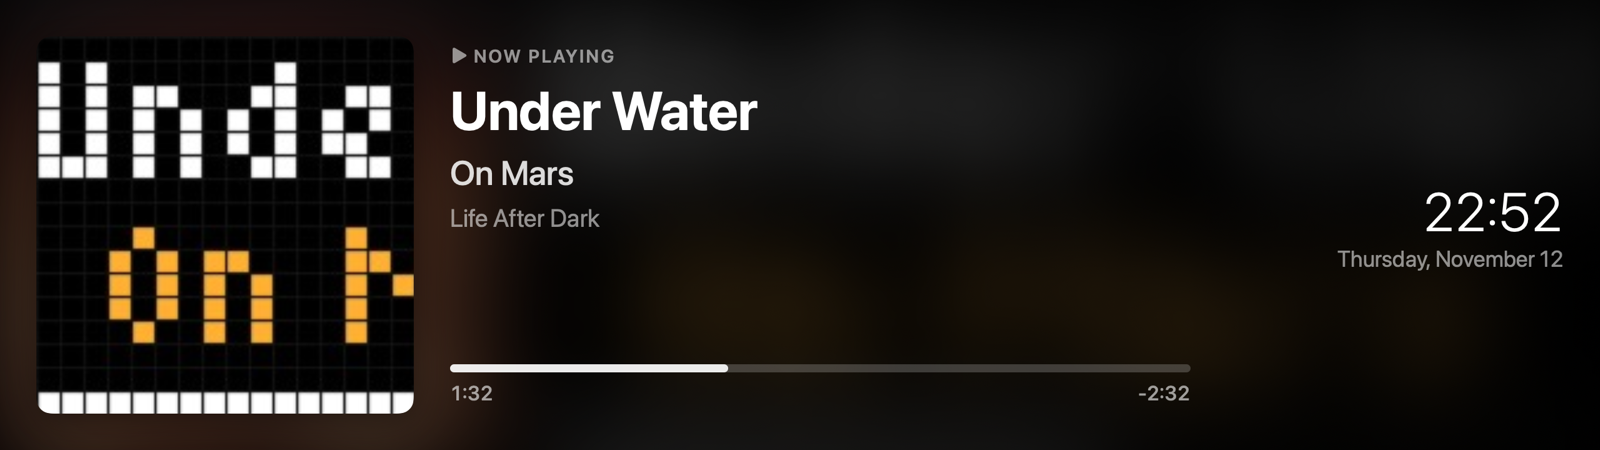
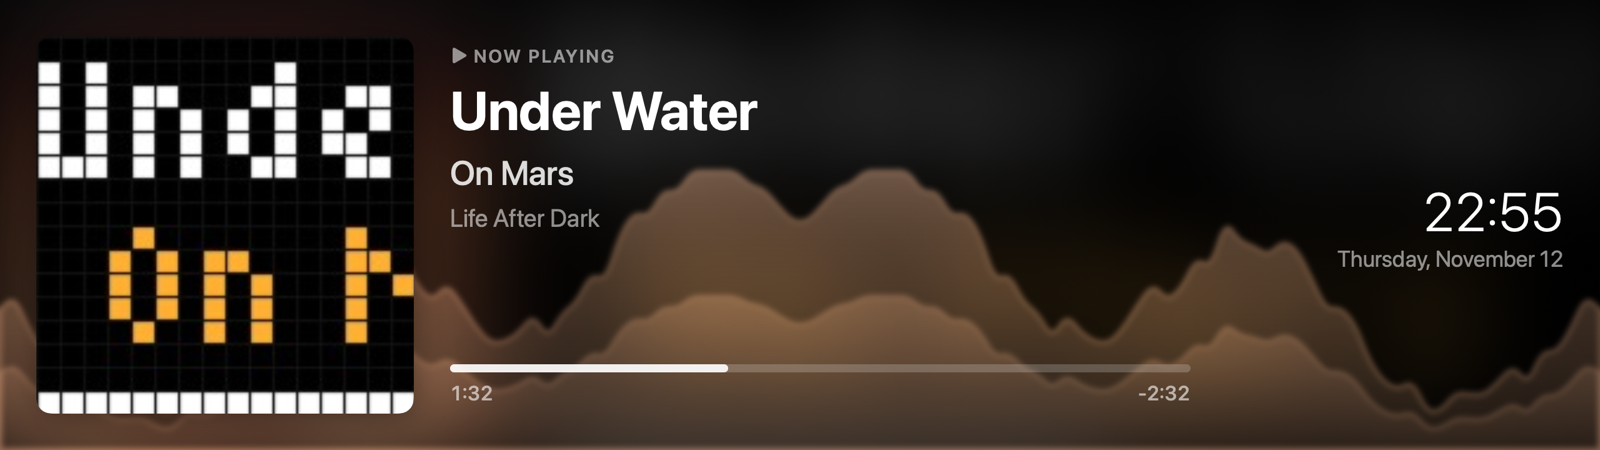
Add spectrum visualizer from a Core Audio tap on Music

diff --git a/Sources/EdgeNowPlaying/Visualizer.swift b/Sources/EdgeNowPlaying/Visualizer.swift
@@ -1,0 +1,160 @@
+import Accelerate
+import AudioToolbox
+import CoreAudio
+import Foundation
+
+/// Spectrum bands shared between the audio thread and the view.
+final class Spectrum: @unchecked Sendable {
+    static let bandCount = 56
+    private let lock = NSLock()
+    private var bands = [Float](repeating: 0, count: bandCount)
+
+    func read() -> [Float] { lock.lock(); defer { lock.unlock() }; return bands }
+    func write(_ b: [Float]) { lock.lock(); bands = b; lock.unlock() }
+    /// Lets the wave fall to rest when the audio stops.
+    func decay() { lock.lock(); bands = bands.map { $0 * 0.85 }; lock.unlock() }
+}
+
+/// Taps Music's audio output (Core Audio process tap, macOS 14.2+) and turns it into spectrum bands.
+/// Nothing is recorded or stored: each block of samples is analysed and dropped.
+final class AudioTap: @unchecked Sendable {
+    let spectrum = Spectrum()
+    private(set) var pid: pid_t = 0
+    private var tapID = AudioObjectID(kAudioObjectUnknown)
+    private var aggregateID = AudioObjectID(kAudioObjectUnknown)
+    private var procID: AudioDeviceIOProcID?
+    private let queue = DispatchQueue(label: "edge-nowplaying.audio", qos: .userInteractive)
+
+    // FFT state, touched only on `queue`
+    private let n = 2048
+    private lazy var log2n = vDSP_Length(log2(Double(n)))
+    private lazy var fft = vDSP_create_fftsetup(log2n, FFTRadix(kFFTRadix2))!
+    private lazy var window: [Float] = vDSP.window(ofType: Float.self, usingSequence: .hanningDenormalized, count: n, isHalfWindow: false)
+    private var ring = [Float]()
+    private var smooth = [Float](repeating: 0, count: Spectrum.bandCount)
+    private var peakDb: Float = -30
+    private var sampleRate: Double = 48_000
+    private var edges: [Int] = []
+
+    var running: Bool { procID != nil }
+
+    /// Starts tapping the process with this pid; returns false if Core Audio refuses.
+    @discardableResult
+    func start(pid: pid_t) -> Bool {
+        if running && pid == self.pid { return true }
+        stop()
+        guard let proc = Self.processObject(for: pid) else { return false }
+        self.pid = pid
+
+        let desc = CATapDescription(stereoMixdownOfProcesses: [proc])
+        desc.isPrivate = true
+        desc.muteBehavior = .unmuted
+        guard AudioHardwareCreateProcessTap(desc, &tapID) == noErr else { NSLog("process tap refused"); return false }
+
+        var fmt = AudioStreamBasicDescription()
+        var size = UInt32(MemoryLayout<AudioStreamBasicDescription>.size)
+        var addr = AudioObjectPropertyAddress(mSelector: kAudioTapPropertyFormat, mScope: kAudioObjectPropertyScopeGlobal, mElement: kAudioObjectPropertyElementMain)
+        AudioObjectGetPropertyData(tapID, &addr, 0, nil, &size, &fmt)
+        sampleRate = fmt.mSampleRate > 0 ? fmt.mSampleRate : 48_000
+        edges = Self.bandEdges(n: n, rate: sampleRate)
+
+        let agg: [String: Any] = [
+            kAudioAggregateDeviceNameKey: "Edge Now Playing tap",
+            kAudioAggregateDeviceUIDKey: UUID().uuidString,
+            kAudioAggregateDeviceIsPrivateKey: true,
+            kAudioAggregateDeviceIsStackedKey: false,
+            kAudioAggregateDeviceTapAutoStartKey: true,
+            kAudioAggregateDeviceTapListKey: [[kAudioSubTapUIDKey: desc.uuid.uuidString, kAudioSubTapDriftCompensationKey: true]],
+        ]
+        guard AudioHardwareCreateAggregateDevice(agg as CFDictionary, &aggregateID) == noErr else { stop(); return false }
+
+        let channels = Int(max(fmt.mChannelsPerFrame, 1))
+        let status = AudioDeviceCreateIOProcIDWithBlock(&procID, aggregateID, queue) { [weak self] _, input, _, _, _ in
+            self?.consume(input, channels: channels)
+        }
+        guard status == noErr, AudioDeviceStart(aggregateID, procID) == noErr else { stop(); return false }
+        return true
+    }
+
+    func stop() {
+        if let p = procID { AudioDeviceStop(aggregateID, p); AudioDeviceDestroyIOProcID(aggregateID, p) }
+        if aggregateID != kAudioObjectUnknown { AudioHardwareDestroyAggregateDevice(aggregateID) }
+        if tapID != kAudioObjectUnknown { AudioHardwareDestroyProcessTap(tapID) }
+        procID = nil; aggregateID = AudioObjectID(kAudioObjectUnknown); tapID = AudioObjectID(kAudioObjectUnknown); pid = 0
+    }
+
+    private static func processObject(for pid: pid_t) -> AudioObjectID? {
+        var p = pid, obj = AudioObjectID(kAudioObjectUnknown)
+        var size = UInt32(MemoryLayout<AudioObjectID>.size)
+        var addr = AudioObjectPropertyAddress(mSelector: kAudioHardwarePropertyTranslatePIDToProcessObject, mScope: kAudioObjectPropertyScopeGlobal, mElement: kAudioObjectPropertyElementMain)
+        let r = AudioObjectGetPropertyData(AudioObjectID(kAudioObjectSystemObject), &addr, UInt32(MemoryLayout<pid_t>.size), &p, &size, &obj)
+        return r == noErr && obj != kAudioObjectUnknown ? obj : nil
+    }
+
+    /// Log-spaced FFT bin edges from 35 Hz to 16 kHz.
+    private static func bandEdges(n: Int, rate: Double) -> [Int] {
+        let lo = 35.0, hi = min(16_000, rate / 2 - 1)
+        return (0...Spectrum.bandCount).map { i in
+            let f = lo * pow(hi / lo, Double(i) / Double(Spectrum.bandCount))
+            return max(1, min(n / 2 - 1, Int(f / rate * Double(n))))
+        }
+    }
+
+    private func consume(_ input: UnsafePointer<AudioBufferList>, channels: Int) {
+        let abl = UnsafeMutableAudioBufferListPointer(UnsafeMutablePointer(mutating: input))
+        guard let first = abl.first, let data = first.mData else { return }
+        if abl.count > 1 {   // one buffer per channel
+            let frames = Int(first.mDataByteSize) / MemoryLayout<Float>.size
+            for i in 0..<frames {
+                var s: Float = 0
+                for b in abl { s += b.mData!.assumingMemoryBound(to: Float.self)[i] }
+                ring.append(s / Float(abl.count))
+            }
+        } else {             // interleaved
+            let p = data.assumingMemoryBound(to: Float.self)
+            let frames = Int(first.mDataByteSize) / MemoryLayout<Float>.size / channels
+            for i in 0..<frames {
+                var s: Float = 0
+                for c in 0..<channels { s += p[i * channels + c] }
+                ring.append(s / Float(channels))
+            }
+        }
+        while ring.count >= n {
+            analyse(Array(ring.prefix(n)))
+            ring.removeFirst(n / 2)   // 50% overlap
+        }
+    }
+
+    private func analyse(_ samples: [Float]) {
+        var x = vDSP.multiply(samples, window)
+        var re = [Float](repeating: 0, count: n / 2), im = [Float](repeating: 0, count: n / 2)
+        var power = [Float](repeating: 0, count: n / 2)
+        re.withUnsafeMutableBufferPointer { rp in
+            im.withUnsafeMutableBufferPointer { ip in
+                var split = DSPSplitComplex(realp: rp.baseAddress!, imagp: ip.baseAddress!)
+                x.withUnsafeMutableBufferPointer { xp in
+                    xp.baseAddress!.withMemoryRebound(to: DSPComplex.self, capacity: n / 2) {
+                        vDSP_ctoz($0, 2, &split, 1, vDSP_Length(n / 2))
+                    }
+                }
+                vDSP_fft_zrip(fft, &split, 1, log2n, FFTDirection(FFT_FORWARD))
+                vDSP_zvmags(&split, 1, &power, 1, vDSP_Length(n / 2))
+            }
+        }
+        var db = [Float](repeating: 0, count: Spectrum.bandCount)
+        for b in 0..<Spectrum.bandCount {
+            let lo = edges[b], hi = max(edges[b + 1], lo + 1)
+            var sum: Float = 0
+            for k in lo..<hi { sum += power[k] }
+            db[b] = 10 * log10(sum / Float(hi - lo) / Float(n * n) + 1e-12)
+        }
+        // Automatic gain: follow the loudest band, falling back slowly in quiet passages.
+        peakDb = max(db.max() ?? -90, peakDb - 0.05)
+        let range: Float = 45
+        for b in 0..<Spectrum.bandCount {
+            let v = min(max((db[b] - (peakDb - range)) / range, 0), 1)
+            smooth[b] += (v - smooth[b]) * (v > smooth[b] ? 0.55 : 0.18)
+        }
+        spectrum.write(smooth)
+    }
+}

diff --git a/Sources/EdgeNowPlaying/Music.swift b/Sources/EdgeNowPlaying/Music.swift
@@ -16,6 +16,9 @@ final class MusicModel: ObservableObject {
     /// Position when last read, and when it was read; the view extrapolates while playing.
     @Published var position: Double = 0
     @Published var positionAt = Date()
+    /// A bright colour taken from the artwork, for the visualizer.
+    @Published var accent = NSColor(calibratedRed: 0.55, green: 0.6, blue: 1, alpha: 1)
+    let tap = AudioTap()
 
     private var trackKey = ""
     private var timer: Timer?
@@ -48,12 +51,12 @@ final class MusicModel: ObservableObject {
         refresh()
     }
 
-    private var musicRunning: Bool {
-        NSRunningApplication.runningApplications(withBundleIdentifier: "com.apple.Music").isEmpty == false
+    private var musicApp: NSRunningApplication? {
+        NSRunningApplication.runningApplications(withBundleIdentifier: "com.apple.Music").first
     }
 
     func refresh() {
-        guard musicRunning else { return clear(.off) }
+        guard let app = musicApp else { tap.stop(); return clear(.off) }
         var err: NSDictionary?
         guard let out = infoScript.executeAndReturnError(&err).stringValue else {
             if let err { NSLog("Music info failed: %@", err) }
@@ -62,12 +65,29 @@ final class MusicModel: ObservableObject {
         let f = out.components(separatedBy: sep)
         guard f.count >= 7 else { return clear(f.first.flatMap(State.init(rawValue:)) ?? .stopped) }
         state = State(rawValue: f[0]) ?? .paused
+        if state == .playing && tap.pid != app.processIdentifier { tap.start(pid: app.processIdentifier) }
         position = Self.num(f[4]); positionAt = Date()
         let key = [f[1], f[2], f[3], f[5]].joined(separator: "|")
         guard key != trackKey else { return }
         trackKey = key
         title = f[1]; artist = f[2]; album = f[3]; duration = Self.num(f[5])
         artwork = (Int(f[6]) ?? 0) > 0 ? loadArtwork() : nil
+        if let a = artwork.flatMap(Self.accent(of:)) { accent = a }
+    }
+
+    /// Average colour of the artwork, pushed bright and saturated so it reads on black.
+    static func accent(of img: NSImage) -> NSColor? {
+        guard let cg = img.cgImage(forProposedRect: nil, context: nil, hints: nil) else { return nil }
+        var px = [UInt8](repeating: 0, count: 4)
+        guard let ctx = CGContext(data: &px, width: 1, height: 1, bitsPerComponent: 8, bytesPerRow: 4,
+                                  space: CGColorSpaceCreateDeviceRGB(),
+                                  bitmapInfo: CGImageAlphaInfo.premultipliedLast.rawValue) else { return nil }
+        ctx.interpolationQuality = .medium
+        ctx.draw(cg, in: CGRect(x: 0, y: 0, width: 1, height: 1))
+        let c = NSColor(calibratedRed: CGFloat(px[0]) / 255, green: CGFloat(px[1]) / 255, blue: CGFloat(px[2]) / 255, alpha: 1)
+        var h: CGFloat = 0, sat: CGFloat = 0, b: CGFloat = 0, a: CGFloat = 0
+        c.getHue(&h, saturation: &sat, brightness: &b, alpha: &a)
+        return NSColor(calibratedHue: h, saturation: max(sat, 0.35) * 0.9 + 0.1, brightness: max(b, 0.85), alpha: 1)
     }
 
     private func loadArtwork() -> NSImage? {

diff --git a/Sources/EdgeNowPlaying/NowPlayingView.swift b/Sources/EdgeNowPlaying/NowPlayingView.swift
@@ -39,6 +39,8 @@ struct NowPlayingView: View {
             .clipped()
             LinearGradient(colors: [.black.opacity(0.15), .black.opacity(0.6)],
                            startPoint: .leading, endPoint: .trailing)
+            WaveView(spectrum: music.tap.spectrum, color: Color(nsColor: music.accent),
+                     active: music.state == .playing)
         }
         .animation(.easeInOut(duration: 0.8), value: music.title)
     }
@@ -152,5 +154,48 @@ struct ClockView: View {
             }
             .foregroundStyle(.white)
         }
+    }
+}
+
+/// Spectrum drawn as a soft mirrored wave (bass in the middle, treble at the edges) behind the content.
+struct WaveView: View {
+    let spectrum: Spectrum
+    let color: Color
+    let active: Bool
+
+    var body: some View {
+        TimelineView(.animation(minimumInterval: 1.0 / 40)) { _ in
+            Canvas { ctx, size in
+                if !active { spectrum.decay() }
+                let bands = spectrum.read().map(CGFloat.init)
+                let mirrored = Array(bands.reversed()) + bands
+                draw(mirrored, scale: 1.0, in: size, ctx: ctx, opacity: 0.42)
+                draw(mirrored, scale: 0.55, in: size, ctx: ctx, opacity: 0.30)
+            }
+            .blur(radius: 5)
+            .blendMode(.plusLighter)
+        }
+        .allowsHitTesting(false)
+    }
+
+    private func draw(_ v: [CGFloat], scale: CGFloat, in size: CGSize, ctx: GraphicsContext, opacity: Double) {
+        guard v.count > 1 else { return }
+        let maxH = size.height * 0.62 * scale
+        let step = size.width / CGFloat(v.count - 1)
+        let pts = v.enumerated().map { CGPoint(x: CGFloat($0.offset) * step, y: size.height - $0.element * maxH) }
+        var path = Path()
+        path.move(to: CGPoint(x: 0, y: size.height))
+        path.addLine(to: pts[0])
+        for i in 1..<pts.count {     // smooth curve through the midpoints
+            let mid = CGPoint(x: (pts[i - 1].x + pts[i].x) / 2, y: (pts[i - 1].y + pts[i].y) / 2)
+            path.addQuadCurve(to: mid, control: pts[i - 1])
+        }
+        path.addLine(to: pts[pts.count - 1])
+        path.addLine(to: CGPoint(x: size.width, y: size.height))
+        path.closeSubpath()
+        ctx.fill(path, with: .linearGradient(
+            Gradient(colors: [color.opacity(opacity), color.opacity(opacity * 0.25)]),
+            startPoint: CGPoint(x: 0, y: size.height - maxH), endPoint: CGPoint(x: 0, y: size.height)))
+        ctx.stroke(path, with: .color(color.opacity(min(opacity * 1.6, 0.8))), lineWidth: 3)
     }
 }

diff --git a/Sources/EdgeNowPlaying/main.swift b/Sources/EdgeNowPlaying/main.swift
@@ -78,6 +78,12 @@ final class AppDelegate: NSObject, NSApplicationDelegate {
     m.title = "Under Water"; m.artist = "On Mars"; m.album = "Life After Dark"
     m.duration = 245; m.position = 92; m.positionAt = Date()
     m.artwork = art.flatMap { NSImage(contentsOfFile: $0) }
+    if let a = m.artwork.flatMap(MusicModel.accent(of:)) { m.accent = a }
+    // a typical music spectrum: strong bass, a mid bump, falling treble, some jitter
+    m.tap.spectrum.write((0..<Spectrum.bandCount).map { i in
+        let x = Float(i) / Float(Spectrum.bandCount)
+        return max(0, min(1, 0.85 - 0.6 * x + 0.25 * sin(x * 14) + Float.random(in: -0.08...0.08)))
+    })
     let r = ImageRenderer(content: NowPlayingView(music: m).frame(width: 2560, height: 720))
     r.scale = 1
     guard let cg = r.cgImage,

diff --git a/Package.swift b/Package.swift
@@ -3,6 +3,6 @@ import PackageDescription
 
 let package = Package(
     name: "EdgeNowPlaying",
-    platforms: [.macOS(.v14)],
+    platforms: [.macOS("14.2")],
     targets: [.executableTarget(name: "EdgeNowPlaying", path: "Sources/EdgeNowPlaying")]
 )

diff --git a/README.md b/README.md
@@ -1,6 +1,6 @@
 # Edge Now Playing
 
-Shows what Apple Music is playing on a Corsair Xeneon Edge (2560×720), with no iCUE needed: artwork, title, artist, album, progress and a clock. A clock fills the screen when nothing is playing. Use the Stream Deck's Multimedia actions for play/pause and skip.
+Shows what Apple Music is playing on a Corsair Xeneon Edge (2560×720), with no iCUE needed: artwork, title, artist, album, progress, a clock, and a spectrum visualizer tinted by the artwork. A clock fills the screen when nothing is playing. Use the Stream Deck's Multimedia actions for play/pause and skip.
 
 ![Preview](docs/preview.png)
 
@@ -11,6 +11,7 @@ Build and install to `~/Applications`, then start it:
 ```
 
 - On first run macOS asks to let it control **Music**. Allow it (System Settings → Privacy & Security → Automation). Rebuilding changes the ad-hoc signature, so macOS may ask again.
+- macOS also asks to let it record **Music's audio** for the visualizer (System Settings → Privacy & Security → Screen & System Audio Recording). It only measures loudness per frequency band; nothing is recorded or saved. Needs macOS 14.2+.
 - Menu bar icon (TV with a note): **Start at Login**, **Quit**.
 - The app never opens Music; it only reads it while Music is running.
 - It finds the Edge by name, or any screen at least three times wider than tall, and follows display changes.
